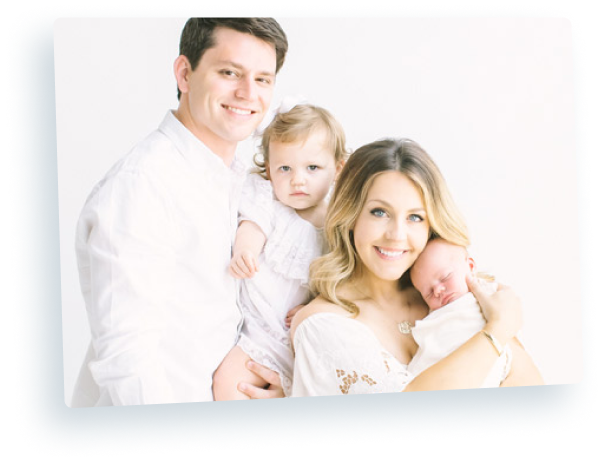
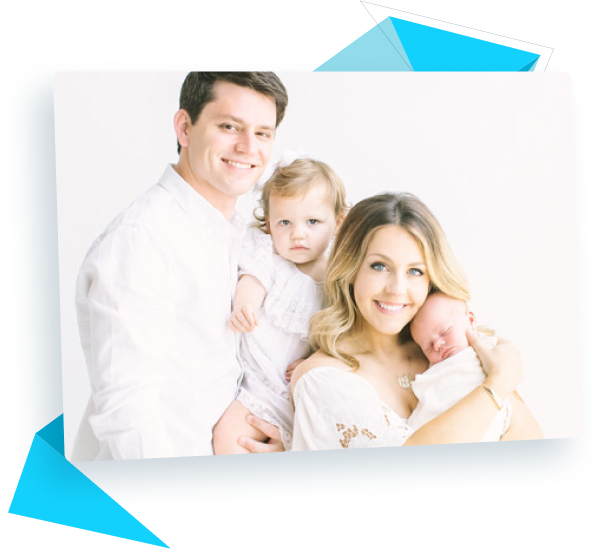
designed the picture under section 2 buda orthodontics with family and 2 babies

diff --git a/index.html b/index.html
@@ -117,7 +117,9 @@
         </div>
         <div class="container-2">
             <div class="content-2-1">
-                hello world
+                <div>
+                    <img src="images/family-1.png" alt="">
+                </div>
             </div>
             <div class="content-2-2">
                 hello world
